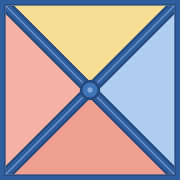
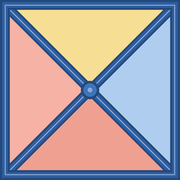
Ajuste de icono PWA a borde completo (edge-to-edge) para iOS v22

Changed region(s): [[0.0, 0.0, 1.0, 1.0]]

diff --git a/js/screens/onboarding.js b/js/screens/onboarding.js
@@ -2,7 +2,7 @@
 import { useState } from 'react';
 import { html, Icon, Art, toast, errorText } from '../ui.js';
 import { useData, usePref } from '../store.js';
-import { ACCOUNT_TEMPLATES, BANK_GROUPS, BANK_PICK_TEMPLATES, BANK_SUGGESTIONS, CURRENCIES, KINDS, ACCOUNT_COLORS, parseAmount } from '../money.js';
+import { ACCOUNT_TEMPLATES, BANK_PICK_TEMPLATES, bankGroupsFor, BANK_SUGGESTIONS, CURRENCIES, KINDS, ACCOUNT_COLORS, parseAmount } from '../money.js';
 
 const SLIDES = [
   { art: 'coins', title: 'Bienvenido a La Fructosa', text: 'Todo tu dinero en un solo lugar: efectivo, bancos, Zelle, Pago Móvil y criptomonedas. Cada cuenta es independiente y nadie ve la de los demás.' },
@@ -59,7 +59,6 @@ function QuickSetup({ region, onDone, save }) {
     ...ACCOUNT_TEMPLATES[reg].filter((t) => !(t.kind === 'bank' && BANK_SUGGESTIONS[reg].includes(t.name))),
     ...BANK_PICK_TEMPLATES[reg],
   ];
-  const bankGroups = BANK_GROUPS[reg];
   // picked[k] = { bal: saldo escrito, bank: nombre del banco (solo plantillas con bank: true) }
   const [picked, setPicked] = useState({});
   const [busy, setBusy] = useState(false);
@@ -103,7 +102,7 @@ function QuickSetup({ region, onDone, save }) {
           <span class="check">${on && html`<${Icon} name="check" size=${14} stroke=${3} />`}</span>
           <span>${t.icon || KINDS[t.kind].emoji} <b>${t.bank && picked[k]?.bank.trim() ? picked[k].bank.trim() : t.name}</b> <small>${t.currency}</small></span>
         </button>
-        ${on && t.bank && html`<${BankPicker} groups=${bankGroups} value=${picked[k].bank} onChange=${(v) => patch(k, { bank: v })} />`}
+        ${on && t.bank && html`<${BankPicker} groups=${bankGroupsFor(reg, t.currency)} value=${picked[k].bank} onChange=${(v) => patch(k, { bank: v })} />`}
         ${on && html`<div class="input-affix"><span>${CURRENCIES[t.currency].symbol}</span>
           <input class="input num" inputmode="decimal" placeholder="Saldo hoy" value=${picked[k].bal} onInput=${(e) => patch(k, { bal: e.target.value.replace(/[^\d.,]/g, '') })} /></div>`}
       </div>`;

diff --git a/js/api.js b/js/api.js
@@ -24,14 +24,22 @@ function unwrap({ data, error }) {
 // Si la base de datos aún no tiene una columna nueva (migración pendiente), la quitamos y reintentamos.
 async function tolerant(run, row) {
   let payload = { ...row };
-  for (let i = 0; i < 6; i++) {
+  const dropped = [];
+  for (let i = 0; i <= Object.keys(row).length; i++) {
     const res = await run(payload);
     const miss = res.error?.message?.match(/Could not find the '([^']+)' column/);
     if (!miss) return unwrap(res);
+    // Columna que no estamos enviando (caché de esquema desactualizada): reintentar no sirve.
+    if (!(miss[1] in payload)) break;
     delete payload[miss[1]];
+    dropped.push(miss[1]);
   }
-  throw new Error('La base de datos rechazó el registro. Revisa que la migración esté aplicada.');
+  throw new Error(`La base de datos rechazó el registro${dropped.length ? ` (faltan columnas: ${dropped.join(', ')})` : ''}. Revisa que la migración esté aplicada.`);
 }
+
+// Al crear una fila, los campos vacíos (null) no se envían: la columna ya vale null por defecto,
+// y así un movimiento simple no depende de columnas opcionales (brecha, transferencias).
+const withoutNulls = (row) => Object.fromEntries(Object.entries(row).filter(([, v]) => v !== null && v !== undefined));
 
 // --- Perfil con plan B ---------------------------------------------------
 // Si guardar usuario y país en la tabla `profiles` falla o tarda, se guardan en
@@ -299,7 +307,7 @@ const real = {
     // exige (auth.uid() = user_id) y no dependemos solo del default de la columna.
     const { data: { session } } = await c.auth.getSession();
     if (!session?.user) throw new Error('Tu sesión expiró. Vuelve a iniciar sesión.');
-    return tolerant((p) => c.from(table).insert(p).select().single(), { ...row, user_id: session.user.id });
+    return tolerant((p) => c.from(table).insert(p).select().single(), { ...withoutNulls(row), user_id: session.user.id });
   },
   async update(table, id, patch) {
     const c = await sb();

diff --git a/js/ai.js b/js/ai.js
@@ -459,9 +459,14 @@ export function resolveTx(spec, d) {
   if (!active.length) return { error: 'Primero crea una cuenta para poder registrar movimientos.' };
 
   const currency = String(spec.currency || '').toUpperCase();
+  // Cuenta: primero por id; luego por nombre exacto; luego por parecido; si no, la primera en esa moneda.
+  const wantedId = String(spec.account_id || '').trim();
   const wanted = norm(spec.account);
-  const byName = wanted && (active.find((a) => norm(a.name) === wanted) || active.find((a) => norm(a.name).includes(wanted) || wanted.includes(norm(a.name))));
-  const acc = byName || active.find((a) => a.currency === currency) || active[0];
+  const acc = (wantedId && active.find((a) => String(a.id) === wantedId))
+    || (wanted && active.find((a) => norm(a.name) === wanted))
+    || (wanted && active.find((a) => norm(a.name).includes(wanted) || wanted.includes(norm(a.name))))
+    || active.find((a) => a.currency === currency) || active[0];
+  if (!acc?.id) return { error: 'No encontré la cuenta para registrar este movimiento.' };
 
   let inAcc = amount;
   let converted = false;
@@ -476,8 +481,9 @@ export function resolveTx(spec, d) {
   // Fecha opcional (p. ej. leída de una captura): solo si es válida, no futura y de los últimos 90 días.
   const today = todayISO();
   const date = /^\d{4}-\d{2}-\d{2}$/.test(String(spec.date || '')) && spec.date <= today && spec.date >= addDays(today, -90) ? spec.date : today;
+  if (!(n2(inAcc) > 0)) return { error: 'El monto convertido es demasiado pequeño para registrarlo.' };
   const row = {
-    type: kind, account_id: acc.id, amount: n2(inAcc), category, description, occurred_on: date,
+    type: kind, account_id: String(acc.id), amount: n2(inAcc), category, description, occurred_on: date,
     to_account_id: null, to_amount: null, original_amount: null, original_currency: null,
     rate_applied: null, rate_bcv: null, rate_paralelo: null,
   };

diff --git a/js/money.js b/js/money.js
@@ -69,8 +69,8 @@ export const ACCOUNT_TEMPLATES = {
 // toca el suyo en la lista desplegable (bank: true). Reemplazan a las plantillas con nombre de banco.
 export const BANK_PICK_TEMPLATES = {
   VE: [
-    { name: 'Cuenta en un banco', currency: 'VES', kind: 'bank', icon: '🏦', bank: true },
-    { name: 'Banco o app en dólares', currency: 'USD', kind: 'bank', icon: '🏦', bank: true },
+    { name: 'Banco venezolano (Bs.)', currency: 'VES', kind: 'bank', icon: '🏦', bank: true },
+    { name: 'Banco o app internacional (USD)', currency: 'USD', kind: 'bank', icon: '🏦', bank: true },
   ],
   US: [{ name: 'Cuenta en un banco', currency: 'USD', kind: 'bank', icon: '🏦', bank: true }],
   ES: [{ name: 'Cuenta en un banco', currency: 'EUR', kind: 'bank', icon: '🏦', bank: true }],
@@ -111,6 +111,14 @@ export const BANK_GROUPS = {
 export const BANK_SUGGESTIONS = Object.fromEntries(
   Object.entries(BANK_GROUPS).map(([region, groups]) => [region, [...new Set(groups.flatMap((g) => g.banks))]]),
 );
+
+// Secciones que se muestran según la moneda de la cuenta. En Venezuela se separan estrictamente:
+// cuentas en Bs. → solo bancos venezolanos; cuentas en divisas → solo bancos y apps internacionales.
+export function bankGroupsFor(region, currency) {
+  const groups = BANK_GROUPS[region] || BANK_GROUPS.VE;
+  if ((region || 'VE') !== 'VE' || !currency) return groups;
+  return currency === 'VES' ? [groups[0]] : [groups[1]];
+}
 
 // Compatibilidad
 export const VE_BANKS = BANK_GROUPS.VE[0].banks;

diff --git a/js/screens/accounts.js b/js/screens/accounts.js
@@ -5,7 +5,7 @@ import { useData } from '../store.js';
 import { Learn } from '../learn.js';
 import { AccountRow, TxRow, PageHeader, openTx, go } from './common.js';
 import {
-  ACCOUNT_COLORS, ACCOUNT_TEMPLATES, ADJUST_CATEGORY, BANK_SUGGESTIONS, CURRENCIES, KINDS, VE_BANKS, convert, fmt, parseAmount, todayISO, monthKey,
+  ACCOUNT_COLORS, ACCOUNT_TEMPLATES, ADJUST_CATEGORY, bankGroupsFor, CURRENCIES, KINDS, VE_BANKS, convert, fmt, parseAmount, todayISO, monthKey,
 } from '../money.js';
 
 const ICONS = ['💵', '🏦', '📱', '📲', '🪙', '💳', '🐷', '💼', '🏠', '✈', '🎓', '💰'];
@@ -64,7 +64,8 @@ export function AccountForm({ account, onClose }) {
   const set = (k, v) => { setF((x) => ({ ...x, [k]: v })); setErr({}); };
   const userRegion = profile?.region || 'VE';
   const templates = ACCOUNT_TEMPLATES[userRegion] || ACCOUNT_TEMPLATES.VE;
-  const bankList = BANK_SUGGESTIONS[userRegion] || BANK_SUGGESTIONS.VE;
+  // Sugerencias según la moneda: en Venezuela, Bs. → bancos venezolanos; divisas → internacionales.
+  const bankList = [...new Set(bankGroupsFor(userRegion, f.currency).flatMap((g) => g.banks))];
   const namePlaceholder = userRegion === 'US'
     ? 'Ej. Checking Account, Venmo, Zelle…'
     : userRegion === 'ES'

diff --git a/js/screens/txform.js b/js/screens/txform.js
@@ -5,7 +5,7 @@ import { html, Icon, Art, Sheet, Segmented, Field, Money, toast, confirmDialog, 
 import { useData, usePref } from '../store.js';
 import { Learn } from '../learn.js';
 import {
-  CATEGORIES, CURRENCIES, KINDS, RATE_LABELS, convert, fmt, fmtRate, fmtPct, marketRateFor, parseAmount,
+  CATEGORIES, CURRENCIES, RATE_LABELS, convert, fmt, fmtRate, fmtPct, marketRateFor, parseAmount,
   spreadCalc, todayISO, monthKey,
 } from '../money.js';
 
@@ -152,8 +152,8 @@ export function TxForm({ tx, preset = {}, onClose }) {
     <div class="acc-picker" role="listbox">
       ${active.filter((a) => a.id !== exclude).map((a) => html`<button key=${a.id} type="button" role="option" aria-selected=${value === a.id}
         class=${'acc-pick' + (value === a.id ? ' on' : '')} onClick=${() => { onPick(a.id); setErrors({}); }} style=${{ '--acc': a.color || 'var(--blue)' }}>
-        <span class="acc-pick-emoji">${a.icon || KINDS[a.kind]?.emoji || '💼'}</span>
         <span class="acc-pick-name">${a.name}</span>
+        <span class="acc-pick-cur">${a.currency}</span>
         <${Money} v=${a.balance} c=${a.currency} class="acc-pick-bal" />
       </button>`)}
     </div>

diff --git a/index.html b/index.html
@@ -11,14 +11,14 @@
   <meta name="theme-color" content="#0E1422" />
   <meta name="color-scheme" content="dark" />
   <link rel="icon" href="./icons/favicon.ico" sizes="any" />
-  <link rel="icon" type="image/png" sizes="192x192" href="./icons/icon-192.png" />
+  <link rel="icon" type="image/png" sizes="192x192" href="./icons/icon-192.png?v=22" />
 
   <!-- iOS: pantalla completa al instalar desde Safari > Compartir > Agregar a pantalla de inicio -->
   <meta name="apple-mobile-web-app-capable" content="yes" />
   <meta name="mobile-web-app-capable" content="yes" />
   <meta name="apple-mobile-web-app-status-bar-style" content="black-translucent" />
   <meta name="apple-mobile-web-app-title" content="La Fructosa" />
-  <link rel="apple-touch-icon" href="./icons/apple-touch-icon.png" />
+  <link rel="apple-touch-icon" sizes="180x180" href="./icons/apple-touch-icon.png?v=22" />
 
   <!-- Estilos propios (sin Tailwind CDN): carga instantánea y funciona sin conexión -->
   <link rel="stylesheet" href="./styles.css" />

diff --git a/styles.css b/styles.css
@@ -285,7 +285,7 @@ input[type="date"]::-webkit-calendar-picker-indicator { filter: invert(.8); }
 .acc-pick { scroll-snap-align: start; min-width: 118px; display: flex; flex-direction: column; align-items: flex-start; gap: 2px; padding: 10px 12px;
   border-radius: 16px; background: var(--bg-2); border: 1.5px solid var(--line); text-align: left; }
 .acc-pick.on { border-color: var(--acc); background: color-mix(in srgb, var(--acc) 16%, var(--bg-2)); }
-.acc-pick-emoji { font-size: 18px; }
+.acc-pick-cur { font-size: 10.5px; font-weight: 700; letter-spacing: .04em; color: var(--muted); }
 .acc-pick-name { font-weight: 650; font-size: 13.5px; white-space: nowrap; }
 .acc-pick-bal { font-size: 12px; color: var(--muted); }
 

diff --git a/sw.js b/sw.js
@@ -1,6 +1,6 @@
 // La Fructosa · Service Worker
 // Sube CACHE_VERSION en cada despliegue: la app avisará "Hay una versión nueva".
-const CACHE_VERSION = 'fructosa-v20';
+const CACHE_VERSION = 'fructosa-v22';
 
 const APP_SHELL = [
   './',
